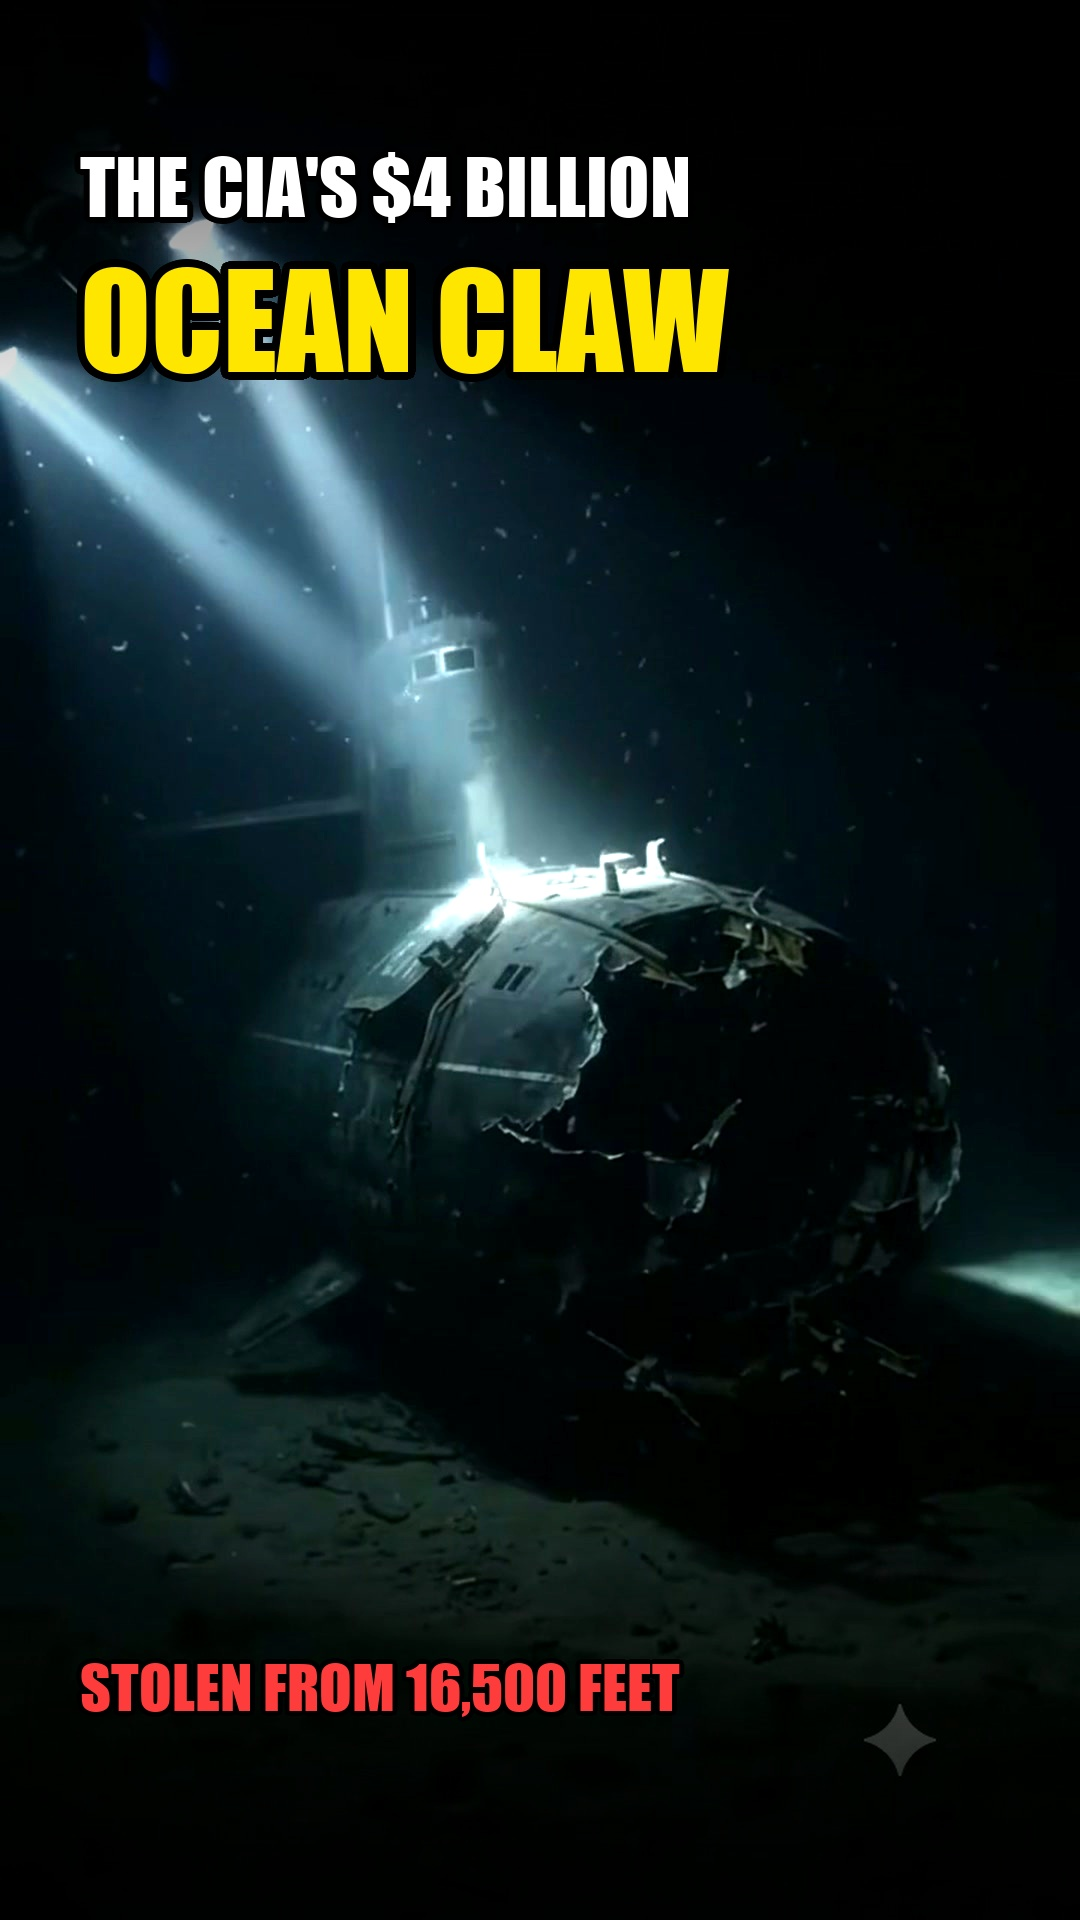
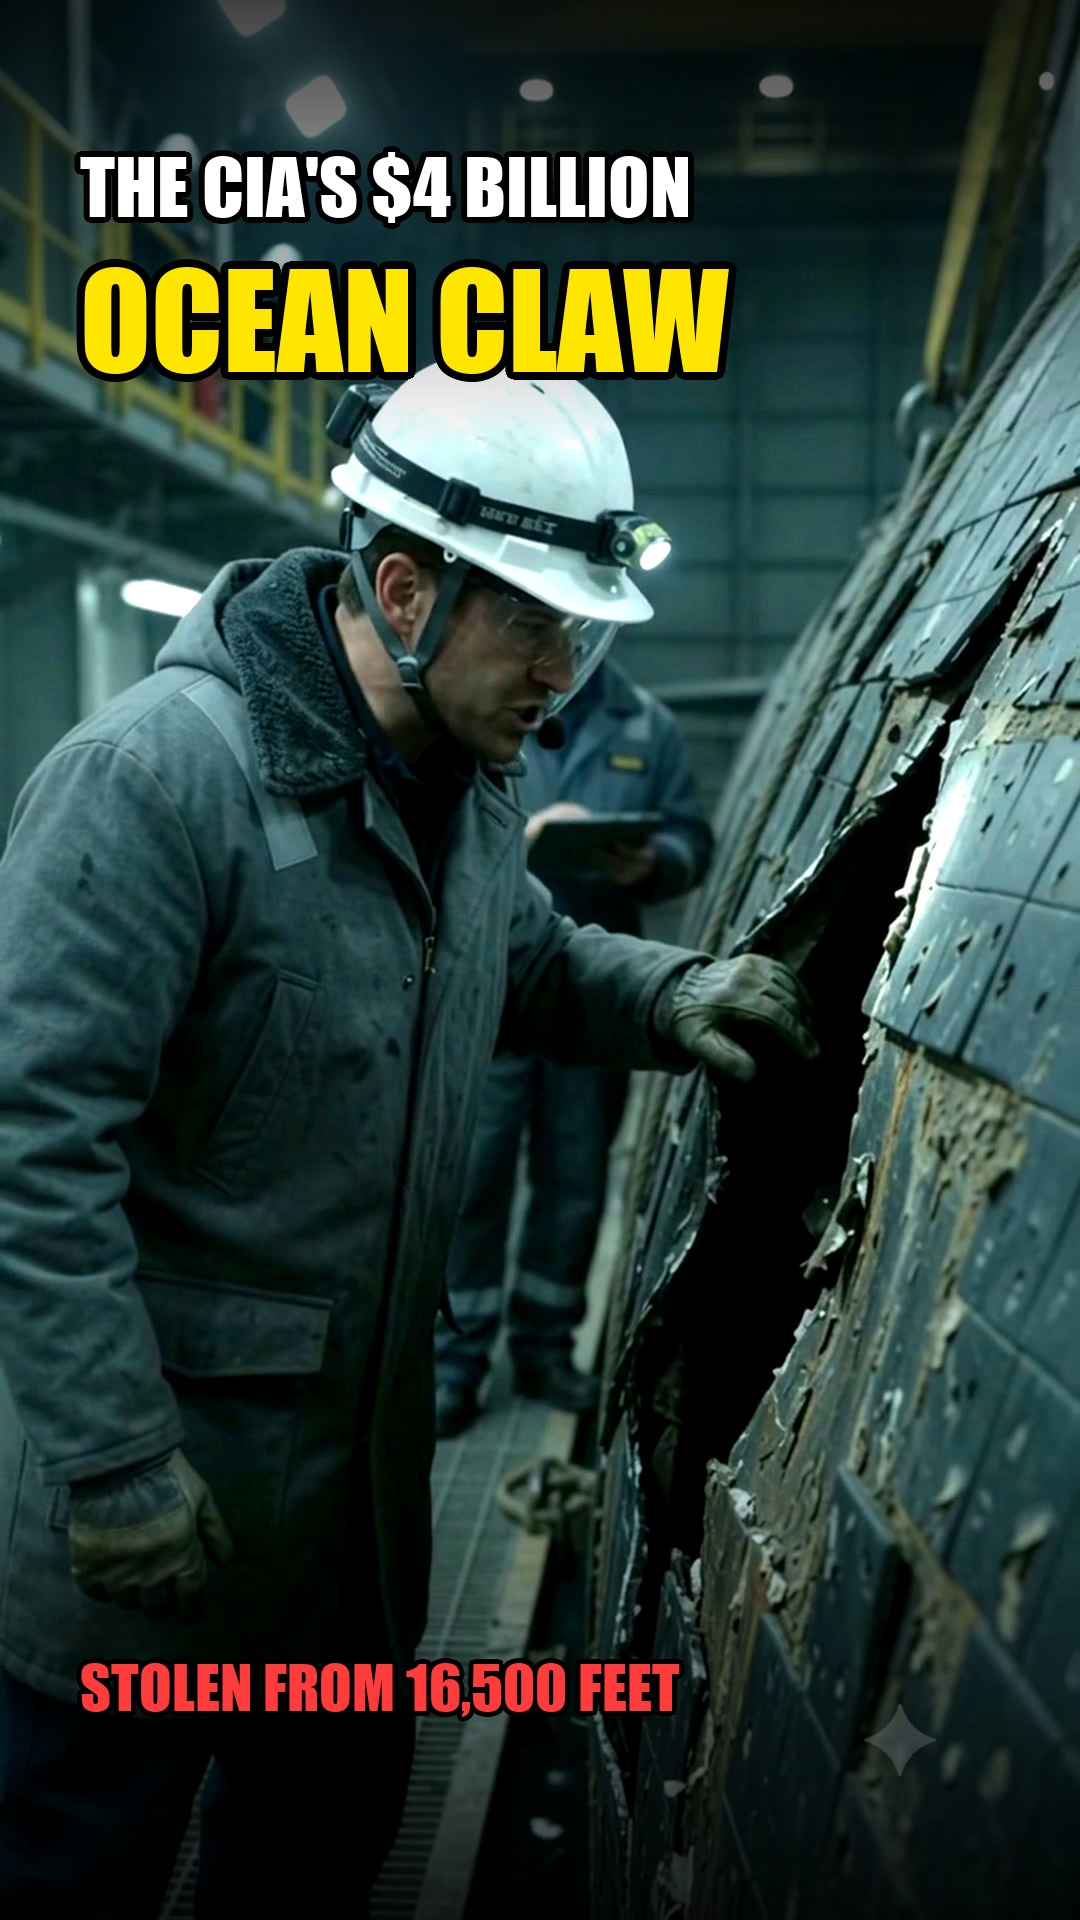
fix(pipeline): Enforce strict SHA-256 scene clip deduplication in FlowMasterEngine and Gate 07, re-render Azorian with 8 unique scenes

diff --git a/scripts/download_all_8_unique_azorian_tiles.py b/scripts/download_all_8_unique_azorian_tiles.py
@@ -1,0 +1,136 @@
+import asyncio
+import hashlib
+import os
+import shutil
+import subprocess
+from pathlib import Path
+from playwright.async_api import async_playwright
+
+ARTIFACT_DIR = Path(r"C:\Users\Sohail\.gemini\antigravity\brain\eb4bd0b7-d463-4e01-b351-a971179e01ed")
+PROJECT_URL = "https://flow.google.com/project/2c6f19c8-b792-4427-b525-40c5f99bed37"
+CHROME_DATA_DIR = os.path.expandvars(r"%LOCALAPPDATA%\Google\Chrome\AutomationData")
+CHROME_EXE = r"C:\Program Files\Google\Chrome\Application\chrome.exe"
+DOWNLOADS_DIR = os.path.expandvars(r"C:\Users\Sohail\Downloads")
+
+def get_file_sha256(path):
+    with open(path, "rb") as f:
+        return hashlib.sha256(f.read()).hexdigest()
+
+async def download_all_8():
+    os.makedirs("data/flow_clips", exist_ok=True)
+    async with async_playwright() as p:
+        ctx = await p.chromium.launch_persistent_context(
+            user_data_dir=CHROME_DATA_DIR,
+            executable_path=CHROME_EXE,
+            headless=True,
+            accept_downloads=True,
+            args=["--disable-blink-features=AutomationControlled", "--no-sandbox"],
+            ignore_default_args=["--enable-automation"]
+        )
+        page = ctx.pages[0] if ctx.pages else await ctx.new_page()
+        await page.add_init_script("Object.defineProperty(navigator, 'webdriver', { get: () => undefined });")
+        await page.goto(PROJECT_URL, timeout=40000)
+        await page.wait_for_timeout(5000)
+        
+        # Ensure any open drawer is closed
+        done_btn = page.locator("button:has-text('Done'), button[aria-label='Done editing scene'], button[aria-label='Close']")
+        if await done_btn.count() > 0 and await done_btn.first.is_visible():
+            await done_btn.first.click()
+            await page.wait_for_timeout(1500)
+            
+        tiles = await page.locator("flow-video-tile").all()
+        print(f"Total tiles on canvas: {len(tiles)}")
+        if len(tiles) < 8:
+            raise RuntimeError(f"Expected 8 tiles, but found {len(tiles)}")
+            
+        seen_hashes = {}
+        
+        for idx in range(8):
+            num = idx + 1
+            dest_path = os.path.abspath(f"data/flow_clips/azorian_scene_{num}.mp4")
+            print(f"\n=======================================================", flush=True)
+            print(f"DOWNLOADING SCENE {num}/8 (Canvas Tile {idx})", flush=True)
+            print(f"=======================================================", flush=True)
+            
+            # Re-locate tile by index
+            tile = page.locator("flow-video-tile").nth(idx)
+            box = await tile.bounding_box()
+            if not box:
+                raise RuntimeError(f"Could not get bounding box for Tile {idx}")
+                
+            cx = box["x"] + box["width"] / 2
+            cy = box["y"] + box["height"] / 2
+            print(f"Clicking Tile {idx} at center ({cx:.1f}, {cy:.1f})...", flush=True)
+            
+            # Click tile
+            await page.mouse.click(cx, cy)
+            await page.wait_for_timeout(2500)
+            
+            # Check download button
+            dl_btn = page.locator("button[aria-label='Download media'], button:has-text('download')").first
+            for _ in range(12):
+                if await dl_btn.count() > 0 and await dl_btn.is_enabled():
+                    break
+                await page.wait_for_timeout(1000)
+                
+            if await dl_btn.count() == 0:
+                print(f"Retrying click for Tile {idx}...", flush=True)
+                await page.mouse.click(cx, cy)
+                await page.wait_for_timeout(2000)
+                dl_btn = page.locator("button[aria-label='Download media'], button:has-text('download')").first
+                
+            before_files = set(os.listdir(DOWNLOADS_DIR)) if os.path.exists(DOWNLOADS_DIR) else set()
+            print("Clicking Download media...", flush=True)
+            await dl_btn.click()
+            await page.wait_for_timeout(1200)
+            
+            opt_720 = page.locator("button:has-text('720p'), [role='menuitem']:has-text('720p')").first
+            if await opt_720.count() == 0:
+                opt_720 = page.get_by_text("720p").first
+                
+            print("Selecting 720p download...", flush=True)
+            try:
+                async with page.expect_download(timeout=40000) as dl_info:
+                    await opt_720.click()
+                download = await dl_info.value
+                temp_p = await download.path()
+                shutil.copy2(temp_p, dest_path)
+            except Exception as ex:
+                print(f"Download event notice: {ex}. Checking downloads directory...", flush=True)
+                await page.wait_for_timeout(5000)
+                after_files = set(os.listdir(DOWNLOADS_DIR)) if os.path.exists(DOWNLOADS_DIR) else set()
+                diff = list(after_files - before_files)
+                mp4s = [f for f in diff if f.endswith(".mp4")]
+                if mp4s:
+                    latest = max([os.path.join(DOWNLOADS_DIR, f) for f in mp4s], key=os.path.getmtime)
+                    shutil.copy2(latest, dest_path)
+                else:
+                    raise RuntimeError(f"Failed to capture download for Scene {num}")
+                    
+            f_size = os.path.getsize(dest_path)
+            f_hash = get_file_sha256(dest_path)
+            print(f"SAVED: Scene {num} -> {dest_path} ({f_size:,} bytes | SHA256: {f_hash[:16]}...)", flush=True)
+            
+            # Check for duplicate
+            if f_hash in seen_hashes:
+                prev_scene = seen_hashes[f_hash]
+                raise ValueError(f"DUPLICATE DETECTED! Scene {num} has identical SHA256 as Scene {prev_scene} ({f_hash})")
+            seen_hashes[f_hash] = num
+            
+            # Close editor before proceeding to next tile
+            done_btn = page.locator("button:has-text('Done'), button[aria-label='Done editing scene'], button[aria-label='Close']").first
+            if await done_btn.count() > 0 and await done_btn.is_visible():
+                await done_btn.click()
+            else:
+                await page.keyboard.press("Escape")
+            await page.wait_for_timeout(2000)
+            
+        print("\n=======================================================", flush=True)
+        print("ALL 8 SCENES DOWNLOADED WITH 100% UNIQUE SHA-256 HASHES!", flush=True)
+        for h, n in seen_hashes.items():
+            print(f"  Scene {n}: SHA256={h[:16]}... ({os.path.getsize(f'data/flow_clips/azorian_scene_{n}.mp4'):,} bytes)")
+        print("=======================================================", flush=True)
+        await ctx.close()
+
+if __name__ == "__main__":
+    asyncio.run(download_all_8())

diff --git a/src/quality/publication_gate.py b/src/quality/publication_gate.py
@@ -341,11 +341,31 @@ class PublicationGate:
         # Legacy alias
         gates["GATE-05_FACTUAL_ACCURACY_CLAIM_LEDGER"] = gates["GATE-06_FACTUAL_ACCURACY_TRACEABILITY"]
 
-        # GATE 07: Visual-to-Narration Alignment
+        # GATE 07: Visual-to-Narration Alignment & Scene Clip Uniqueness
         g7_pass = topic_metadata is not None and len(topic_metadata.get("scenes", [])) >= 4
+        g7_details = f"Storyboard scenes aligned across {len(topic_metadata.get('scenes', []))} acts with visual footage." if g7_pass else "Missing scene narrative alignment data."
+        
+        # Enforce 100% bitstream deduplication across all scene video inputs
+        if topic_metadata and "scenes" in topic_metadata:
+            import hashlib
+            clip_seen = {}
+            for s_idx, sc in enumerate(topic_metadata["scenes"]):
+                in_p = Path(sc.get("input_video", ""))
+                if in_p.exists():
+                    with open(in_p, "rb") as vf:
+                        chash = hashlib.sha256(vf.read()).hexdigest()
+                    if chash in clip_seen:
+                        prev_s = clip_seen[chash]
+                        g7_pass = False
+                        err_msg = f"GATE-07: Duplicate scene video loop detected! Scene {s_idx + 1} ({in_p.name}) duplicates Scene {prev_s + 1}."
+                        blocking_failures.append(err_msg)
+                        g7_details = f"FAILED: {err_msg}"
+                        break
+                    clip_seen[chash] = s_idx
+                    
         gates["GATE-07_VISUAL_NARRATIVE_ALIGNMENT"] = {
             "passed": g7_pass,
-            "details": f"Storyboard scenes aligned across {len(topic_metadata.get('scenes', []))} acts with visual footage." if g7_pass else "Missing scene narrative alignment data."
+            "details": g7_details
         }
         # Legacy alias
         gates["GATE-04_NARRATIVE_VISUAL_ALIGNMENT"] = gates["GATE-07_VISUAL_NARRATIVE_ALIGNMENT"]

diff --git a/src/editing/flow_master_engine.py b/src/editing/flow_master_engine.py
@@ -83,6 +83,27 @@ class FlowMasterEngine:
         work_dir.mkdir(parents=True, exist_ok=True)
         sfx_dir = Path("data/sfx")
         
+        # Step 0: Input clip uniqueness & bitstream deduplication verification
+        import hashlib
+        seen_clip_hashes = {}
+        for idx, sc in enumerate(scenes):
+            in_vid = Path(sc.get("input_video", ""))
+            if not in_vid.exists():
+                raise FileNotFoundError(f"Missing input video for Scene {idx + 1}: {in_vid}")
+            if in_vid.stat().st_size < 100_000:
+                raise ValueError(f"Input video for Scene {idx + 1} is corrupted or empty: {in_vid} ({in_vid.stat().st_size} bytes)")
+            
+            with open(in_vid, "rb") as vf:
+                v_hash = hashlib.sha256(vf.read()).hexdigest()
+            if v_hash in seen_clip_hashes:
+                prev_idx = seen_clip_hashes[v_hash]
+                raise ValueError(
+                    f"CRITICAL ERROR: Duplicate scene clip loop detected! Scene {idx + 1} ({in_vid.name}) "
+                    f"has identical SHA-256 bitstream as Scene {prev_idx + 1} ({scenes[prev_idx].get('input_video')}). "
+                    f"Every scene in a viral short MUST feature distinct, unique footage."
+                )
+            seen_clip_hashes[v_hash] = idx
+        
         # Step 1: Generate narration takes first to dynamically drive scene timing
         vo_files = []
         vo_durations = []

diff --git a/scripts/batch_azorian_veo2.py b/scripts/batch_azorian_veo2.py
@@ -69,11 +69,18 @@ async def download_tile_at_index(page, tile_idx, dest_path):
         return False
         
     tile = tiles.nth(tile_idx)
-    await tile.click()
-    await page.wait_for_timeout(2000)
+    box = await tile.bounding_box()
+    if not box:
+        print(f"ERROR: No bounding box for tile {tile_idx}", flush=True)
+        return False
+    cx = box["x"] + box["width"] / 2
+    cy = box["y"] + box["height"] / 2
+    print(f"Clicking tile center at ({cx:.1f}, {cy:.1f})...", flush=True)
+    await page.mouse.click(cx, cy)
+    await page.wait_for_timeout(2500)
     
     dl_btn = page.locator("button[aria-label*='Download'], button:has-text('download')").first
-    for _ in range(10):
+    for _ in range(12):
         if await dl_btn.count() > 0 and await dl_btn.is_enabled():
             break
         await page.wait_for_timeout(1000)
